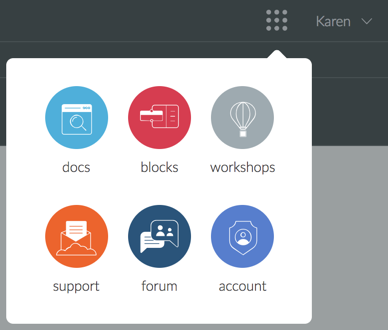
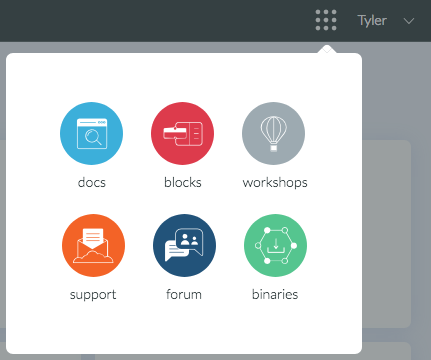
Update images, initial rewording

diff --git a/docs/system-monitor/README.md b/docs/system-monitor/README.md
@@ -2,86 +2,37 @@
 
 The nio system monitoring application, found at [app.n.io/monitor](https://app.n.io/monitor), is the graphical user interface used to monitor your running nio systems.
 
-> The [System Designer workshop](https://workshops.n.io/system-designer) provides a good introduction to using the System Designer to build your first service.
 
-Access the System Designer by clicking the design icon in the application switcher in the far left column.
+Access the System Monitor by clicking the monitor icon in the application switcher in the far left column.
 
-<img class="left" src="/img/tasks/designApp.png" width="500" />
+<img class="left" src="/img/tasks/monitorApp.png" width="500" />
 
 ---
-## <span class="allow-caps">System Designer</span> overview
+## <span class="allow-caps">System Monitor</span> overview
 
-<img class="left" src="/img/system-designer-overview.png" height="375" />
-
-### Systems cards
-The systems cards are shown on the first screen in the System Designer.
-* To create a system, click the **add new system** card.
-* Learn more about [systems](/systems).
+<img class="left" src="/img/system-monitor-overview.png" height="375" />
 
 ### App switcher
 The leftmost column shows the app switcher that enables you to switch between applications. If your license includes monitoring, you can view the system monitoring tool by clicking the monitor icon.
 
-### Instances and services list
-The instances and services list is located on the left side of the System Designer.
-* To view the services within an instance, click the arrow next to the instance name.
-    * The list of services displays below the instance name.
-* To view the contents of an instance in the canvas, click the instance name.
-* To enter the service context and view the contents of a service, click a service name.
-* Learn more about [instances](/instances) and [services](/services).
+### Systems list
+The systems list is located on the left side of the System Monitor.
+* To view the instances within a system, click the system name.
+
 
 ### Header navigation
 
 In the header you can switch between organizations with the organization dropdown, navigate to other parts of niolabs with the navigation menu, and logout of your account.
 
-<img class="left" src="/img/tasks/helpoptions.png" />
+<img class="left" src="/img/tasks/monitorhelpoptions.png" />
 
   * [**docs**](https://docs.n.io)—reference documentation
   * [**blocks**](https://blocks.n.io)—information about all the nio blocks
   * [**workshops**](https://workshops.n.io)—self-paced tutorials
   * [**support**](https://account.n.io/support)—FAQs and contact form
   * [**forum**](https://forum.n.io)—interact with other nio users
-  * [**account**](https://account.n.io/settings)—edit your profile
+  * [**binaries**](https://account.n.io/binaries/download)—download the nio binary
 
-### Breadcrumb
-The breadcrumb is located at the top of the System Designer.
-* As you navigate from system to service, the breadcrumb allows you to easily identify your location in the system.
-
-<img class="left" src="/img/cloud/breadcrumb.gif" width="600" />
-
-### Contextual toolbar
-The contextual toolbar is located underneath the breadcrumb.
-* The contextual toolbar changes based on your location in the project, and displays the available functions.
-* Hover over the icon to reveal the name of the icon.
-* Some icons have a dual appearance when you toggle an action, such as starting and stopping a service.
-
-Icon                      |Description       |
---------------------------|------------------|
-![](/img/IconAuto.gif)    |Auto-Start On/Off
-![](/img/IconClone.gif)   |Clone
-![](/img/IconCommand.gif) |Command
-![](/img/IconDelete.gif)  |Delete
-![](/img/IconEdit.gif)    |Edit
-![](/img/IconRevert.gif)  |Revert
-![](/img/IconSave.gif)    |Save
-![](/img/IconShare.gif)   |Share
-![](/img/IconStopAnim.gif)|Start/Stop
-
-### Canvas (service or block workflow graph)
-The canvas is located in the center of the System Designer.
-* The canvas shows the content of either an instance or a service, depending on the context.
-* In the instance context, the canvas shows the interactions of the services in your instance.
-    * To view the service workflow graph in the canvas, click the instance name.
-* In the service context, the canvas shows the interactions of blocks in your service.
-    * The block workflow is designed by the user and represents the flow of data between the inputs and outputs of the [blocks](/blocks/README.md) in a service.
-    * To view a service's block workflow in the canvas, click the service's name.
-    * To add a block to the service, install and then drag and drop a block from the block library onto the canvas.
-    * Connect the blocks from output to input to create the block workflow.
-
-### Block library
-The block library is located on the far right of the System Designer.
-* The block library is visible in the service context.
-* The block library contains blocks that are available for you to use to build the logic in your service.
-* In the search box, enter the name of a block. As you type, the list of blocks is filtered.
 
 ### Support
 Click the intercom icon for support at any time.

diff --git a/docs/system-designer/README.md b/docs/system-designer/README.md
@@ -40,7 +40,7 @@ In the header you can switch between organizations with the organization dropdow
   * [**workshops**](https://workshops.n.io)—self-paced tutorials
   * [**support**](https://account.n.io/support)—FAQs and contact form
   * [**forum**](https://forum.n.io)—interact with other nio users
-  * [**account**](https://account.n.io/settings)—edit your profile
+  * [**binaries**](https://account.n.io/binaries/download)—download the nio binary
 
 ### Breadcrumb
 The breadcrumb is located at the top of the System Designer.
